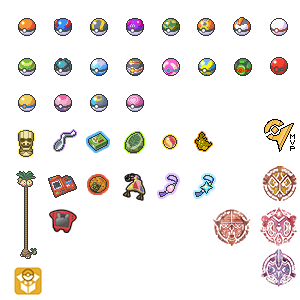
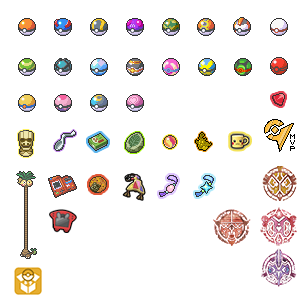
add some images

Changed region(s): [[0.75, 0.42, 0.84, 0.51], [0.9, 0.3, 0.96, 0.36]]

diff --git a/src/banner.css b/src/banner.css
@@ -5,73 +5,13 @@
     background: url(%%daymodeheader%%) left center/cover no-repeat
 }
 html[lang$=nm] #header {
-    background: url(%%header%%) 50% 19px/cover no-repeat
+    background: url(%%nightmodeheader%%) left center/cover no-repeat
 }
 
-html[lang$=nm] #header {
-    background: 0 !important
+.pagename a, .pagename a:hover {
+    background: url(%%dm-logo%%) center center/contain no-repeat;
 }
-
-html[lang$=nm] [name=uh] ~ a:after,
-.logout:after {
-    content: '';
-    right: 0;
-    bottom: 100%;
-    height: 147px;
-    width: 100vw;
-    display: block;
-    position: absolute
-}
-
-html[lang$=nm] [name=uh] ~ a:after {
-    pointer-events: none;
-    background: no-repeat center center / cover
-}
-
-[name=uh][value^="0"]~a:after,
-[name=uh][value^="1"]~a:after,
-[name=uh][value^="2"]~a:after,
-[name=uh][value^="3"]~a:after,
-[name=uh][value^="4"]~a:after,
-[name=uh][value^="5"]~a:after,
-[name=uh][value^="6"]~a:after,
-[name=uh][value^="7"]~a:after,
-[name=uh][value^="8"]~a:after {
-    background-image: url(%%nm-banner1%%) !important
-}
-
-[name=uh][value^="9"]~a:after,
-[name=uh][value^=a]~a:after,
-[name=uh][value^=b]~a:after,
-[name=uh][value^=c]~a:after,
-[name=uh][value^=d]~a:after,
-[name=uh][value^=e]~a:after,
-[name=uh][value^=f]~a:after,
-[name=uh][value^=g]~a:after,
-[name=uh][value^=h]~a:after {
-    background-image: url(%%nm-banner2%%) !important
-}
-
-[name=uh][value^=i]~a:after,
-[name=uh][value^=j]~a:after,
-[name=uh][value^=k]~a:after,
-[name=uh][value^=l]~a:after,
-[name=uh][value^=m]~a:after,
-[name=uh][value^=n]~a:after,
-[name=uh][value^=o]~a:after,
-[name=uh][value^=p]~a:after,
-[name=uh][value^=q]~a:after {
-    background-image: url(%%nm-banner3%%) !important
-}
-
-[name=uh][value^=r]~a:after,
-[name=uh][value^=s]~a:after,
-[name=uh][value^=t]~a:after,
-[name=uh][value^=u]~a:after,
-[name=uh][value^=v]~a:after,
-[name=uh][value^=w]~a:after,
-[name=uh][value^=x]~a:after,
-[name=uh][value^=y]~a:after,
-[name=uh][value^=z]~a:after {
-    background-image: url(%%nm-banner4%%) !important
+html[lang$=nm] .pagename a,
+html[lang$=nm] .pagename a:hover {
+    background: url(%%nm-logo%%) center center/contain no-repeat;
 }

diff --git a/src/userflair.css b/src/userflair.css
@@ -167,15 +167,15 @@
 .res .thing .tagline .author.submitter[href$="/Hero_Of_Legend"],
 .side .tagline .author[href$="/Hero_Of_Legend"],
 .author[href$="/Hero_Of_Legend"]~.flair:before {
-    background-position: 0 -72px;
+    background-position: 0 -72px !important;
     color: #fff !important;
 }
 
-.thing .author[href$="/aDr1v3"],
-.res .thing .tagline .author.submitter[href$="/aDr1v3"],
-.side .tagline .author[href$="/aDr1v3"],
-.author[href$="/aDr1v3"]~.flair:before {
-    background-position: 0 -108px;
+.thing .author[href$="/Twitch-Plays-Pokemon"],
+.res .thing .tagline .author.submitter[href$="/Twitch-Plays-Pokemon"],
+.side .tagline .author[href$="/Twitch-Plays-Pokemon"],
+.author[href$="/Twitch-Plays-Pokemon"]~.flair:before {
+    background-position: 0 -108px !important;
     color: #fff !important;
 }
 
@@ -271,6 +271,7 @@
 .author[href$="/SynergizerSyd"]~.flair:after,
 .author[href$="/TheRoto"]~.flair:after,
 .author[href$="/ElStrawFedora"]~.flair:after,
+.author[href$="/keskisormi"]~.flair:after,
 .author[href$="/Invis-"]~.flair:after {
     background-position: -117px -54px;
 }
@@ -472,4 +473,16 @@
 .flair.flair-bankflair:after {
     background: url(%%balls%%) no-repeat -13px -266px !important;
     transform: scale(0.9);
+}
+
+.flair.flair-tapubulu-medal:after {
+    background: url(%%balls%%) no-repeat -211px -206px !important;
+    width: 42px;
+    height: 42px;
+    margin-top: -8px;
+    margin-left: -10px;
+}
+
+.flair.flair-pikacup:after {
+    background: url(%%balls%%) no-repeat -225px -127px !important;
 }
